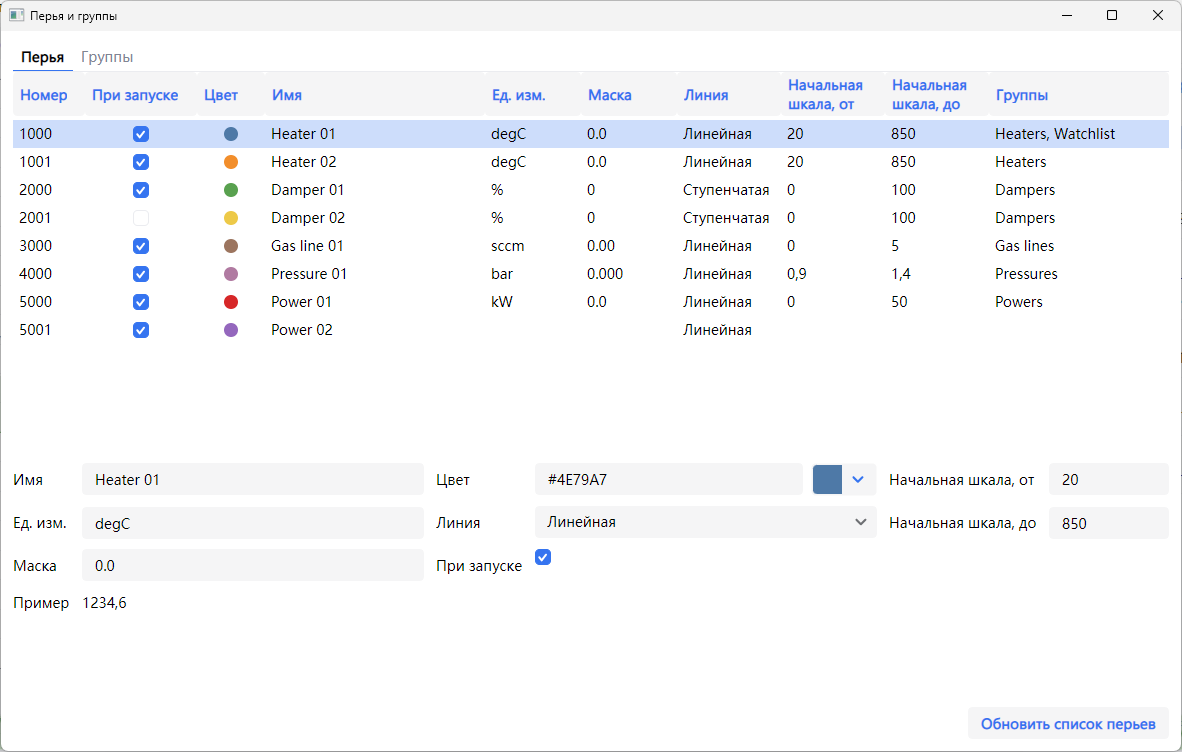
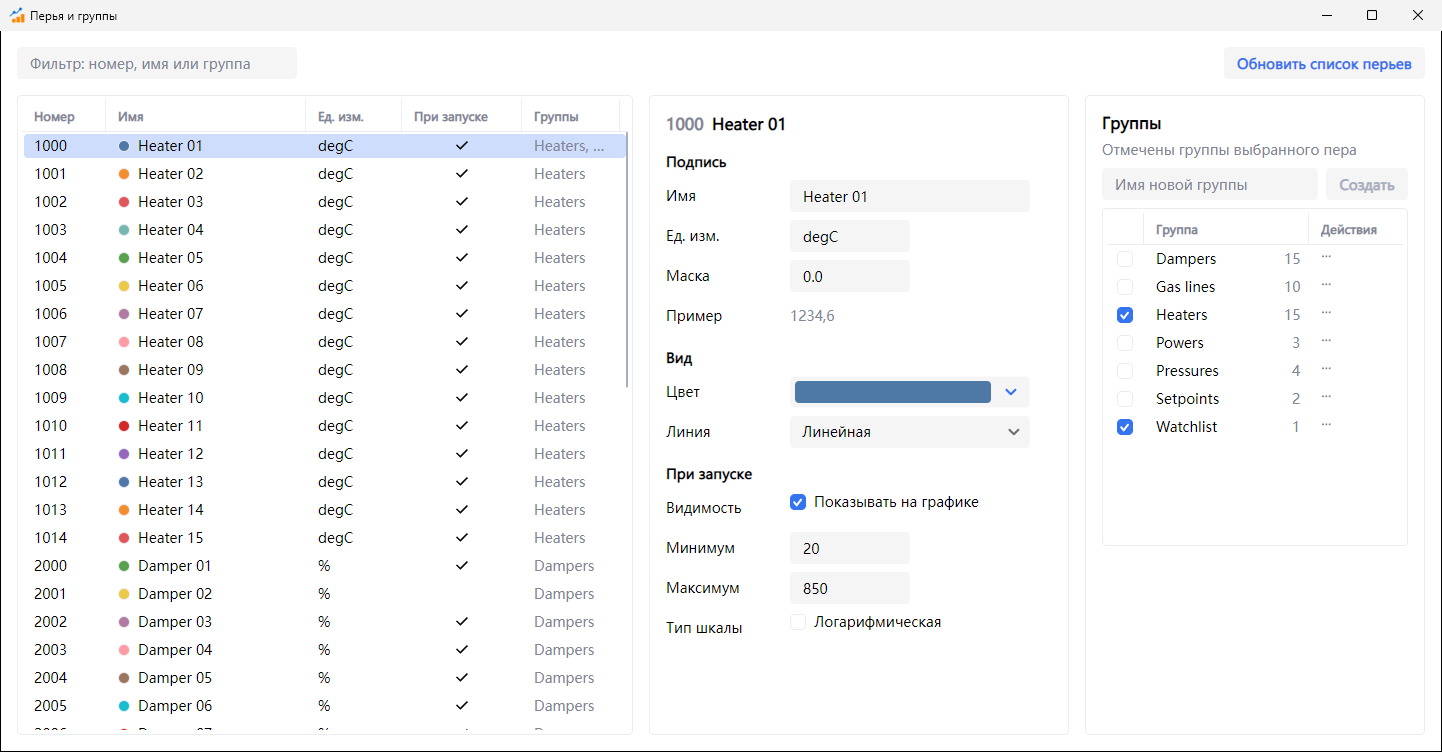
docs(readme): update the remaining screenshots (#175)
Three README screenshots still showed the old single-strip minimap and
the pre-six-month data. The two-window, pens-and-groups and settings
images now come from the six-month stand on the merged code.

diff --git a/readme.md b/readme.md
@@ -109,7 +109,7 @@ SemiPlot — программа просмотра трендов техноло
 - При ошибке запуска программа открывает окно ошибки, из которого доступны настройки и перезапуск.
 
 <div align="center">
-    <img src="./docs/img/pens-and-groups.png" width="600" />
+    <img src="./docs/img/pens-and-groups.png" width="800" />
     <p><em>Окно перьев и групп</em></p>
 </div>
 
